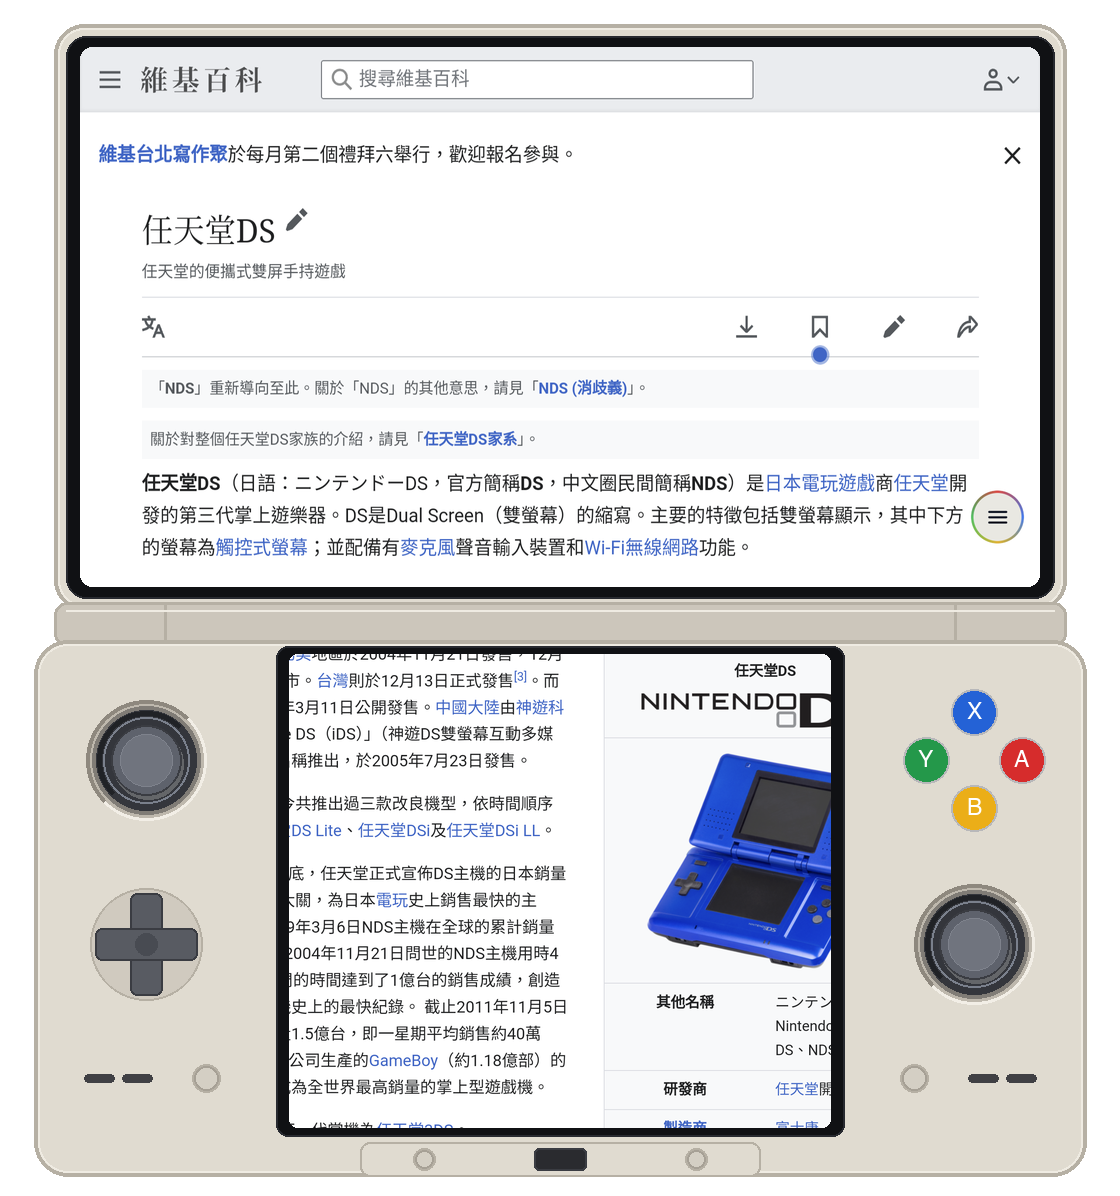
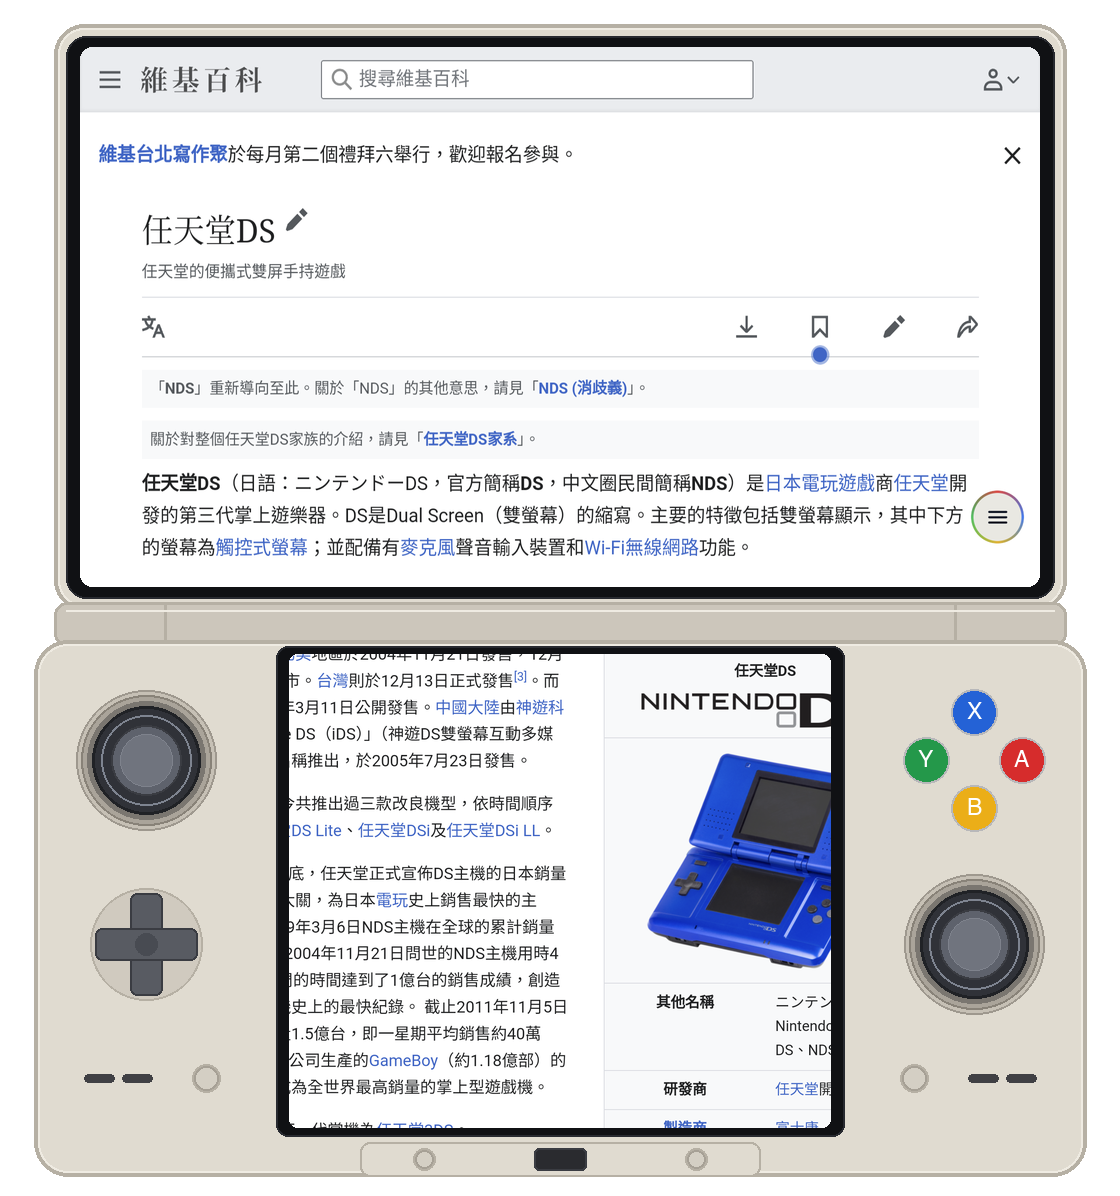
docs: enlarge full 360-degree recessed joystick dish on Thor mockups

Changed region(s): [[0.7812, 0.7115, 0.9375, 0.8662], [0.0625, 0.5569, 0.2188, 0.7115]]

diff --git a/README.md b/README.md
@@ -16,7 +16,7 @@
 
 | 雙螢幕獨立模式（Google ＋ DuckDuckGo） | 跨螢幕拼接模式（原生 1080p 無縫延伸） |
 | :---: | :---: |
-| <img src="docs/screenshots/thor_independent.png?v=6" alt="AYN Thor 雙螢幕獨立模式" width="380" /> | <img src="docs/screenshots/thor_span.png?v=6" alt="AYN Thor 跨螢幕拼接模式" width="380" /> |
+| <img src="docs/screenshots/thor_independent.png?v=7" alt="AYN Thor 雙螢幕獨立模式" width="380" /> | <img src="docs/screenshots/thor_span.png?v=7" alt="AYN Thor 跨螢幕拼接模式" width="380" /> |
 
 ### 2. 全螢幕與統一浮動選單
 - 隱藏狀態列與導覽列的純淨全螢幕瀏覽，透過 `LaunchTrampolineActivity` 確保於主顯示器（上螢幕）正確啟動。
@@ -30,7 +30,7 @@
 
 | 統一浮動選單 | 新手教學導覽 |
 | :---: | :---: |
-| <img src="docs/screenshots/thor_menu_touchpad.png?v=6" alt="AYN Thor 統一浮動選單" width="380" /> | <img src="docs/screenshots/thor_tutorial.png?v=6" alt="AYN Thor 新手教學導覽" width="380" /> |
+| <img src="docs/screenshots/thor_menu_touchpad.png?v=7" alt="AYN Thor 統一浮動選單" width="380" /> | <img src="docs/screenshots/thor_tutorial.png?v=7" alt="AYN Thor 新手教學導覽" width="380" /> |
 
 ### 3. AYN Thor 主機配色主題
 內建 5 款對應 AYN Thor 實機外觀的配色主題（預設為 `Rainbow`），皆支援雙螢幕即時同步：
@@ -41,7 +41,7 @@
 - **Custom**（自訂色相滑桿）
 
 <p align="center">
-  <img src="docs/screenshots/thor_theme_settings.png?v=6" alt="AYN Thor 主機配色主題設定" width="380" />
+  <img src="docs/screenshots/thor_theme_settings.png?v=7" alt="AYN Thor 主機配色主題設定" width="380" />
 </p>
 
 ### 4. 手把與下螢幕觸控板
@@ -56,7 +56,7 @@
 
 | 手把快捷操作說明（無觸控板） | 拼接模式＋下螢幕多指觸控板 |
 | :---: | :---: |
-| <img src="docs/screenshots/thor_gamepad_guide.png?v=6" alt="AYN Thor 手把快捷操作說明" width="380" /> | <img src="docs/screenshots/thor_touchpad.png?v=6" alt="AYN Thor 下螢幕多指觸控板" width="380" /> |
+| <img src="docs/screenshots/thor_gamepad_guide.png?v=7" alt="AYN Thor 手把快捷操作說明" width="380" /> | <img src="docs/screenshots/thor_touchpad.png?v=7" alt="AYN Thor 下螢幕多指觸控板" width="380" /> |
 
 ### 5. 隱私與網頁增強
 - 內建廣告網域阻擋（`AdBlocker`）與攔截計數
